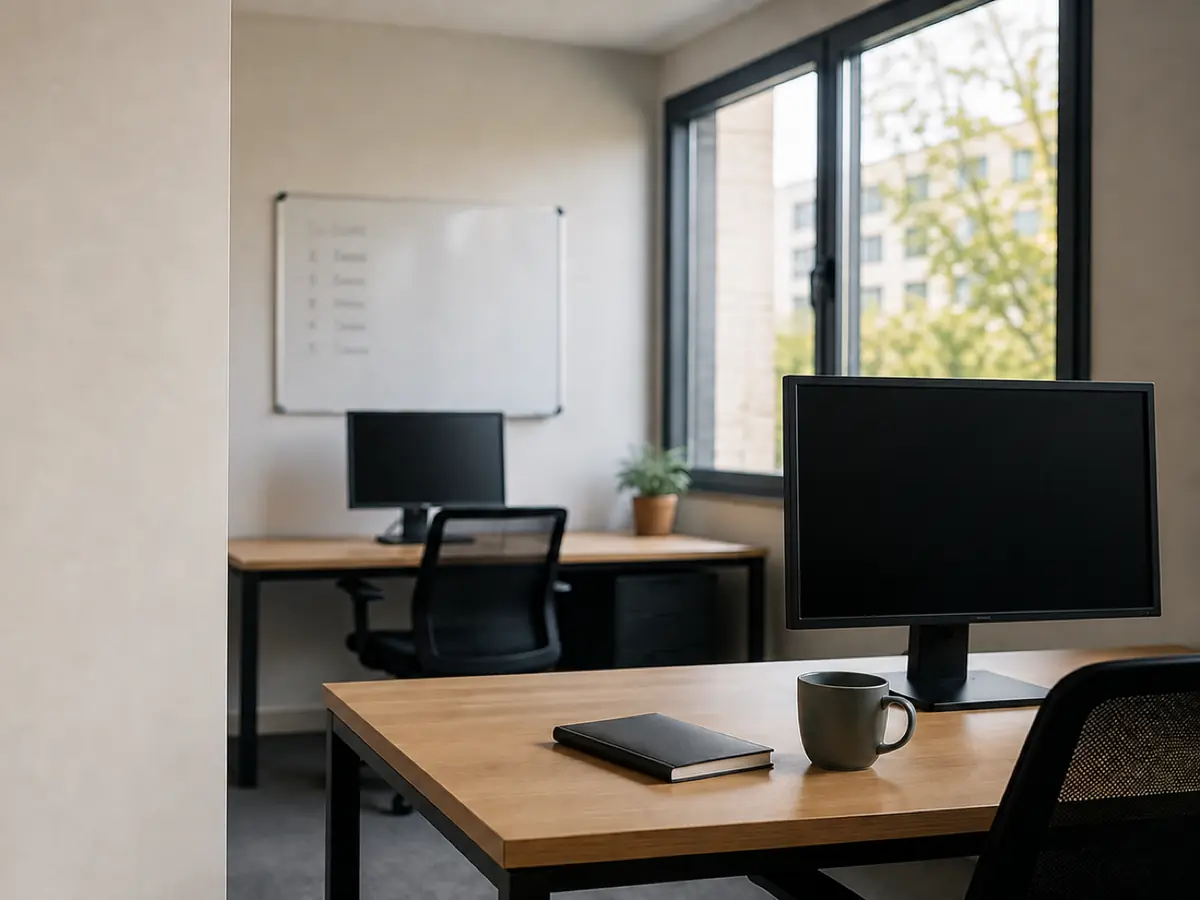
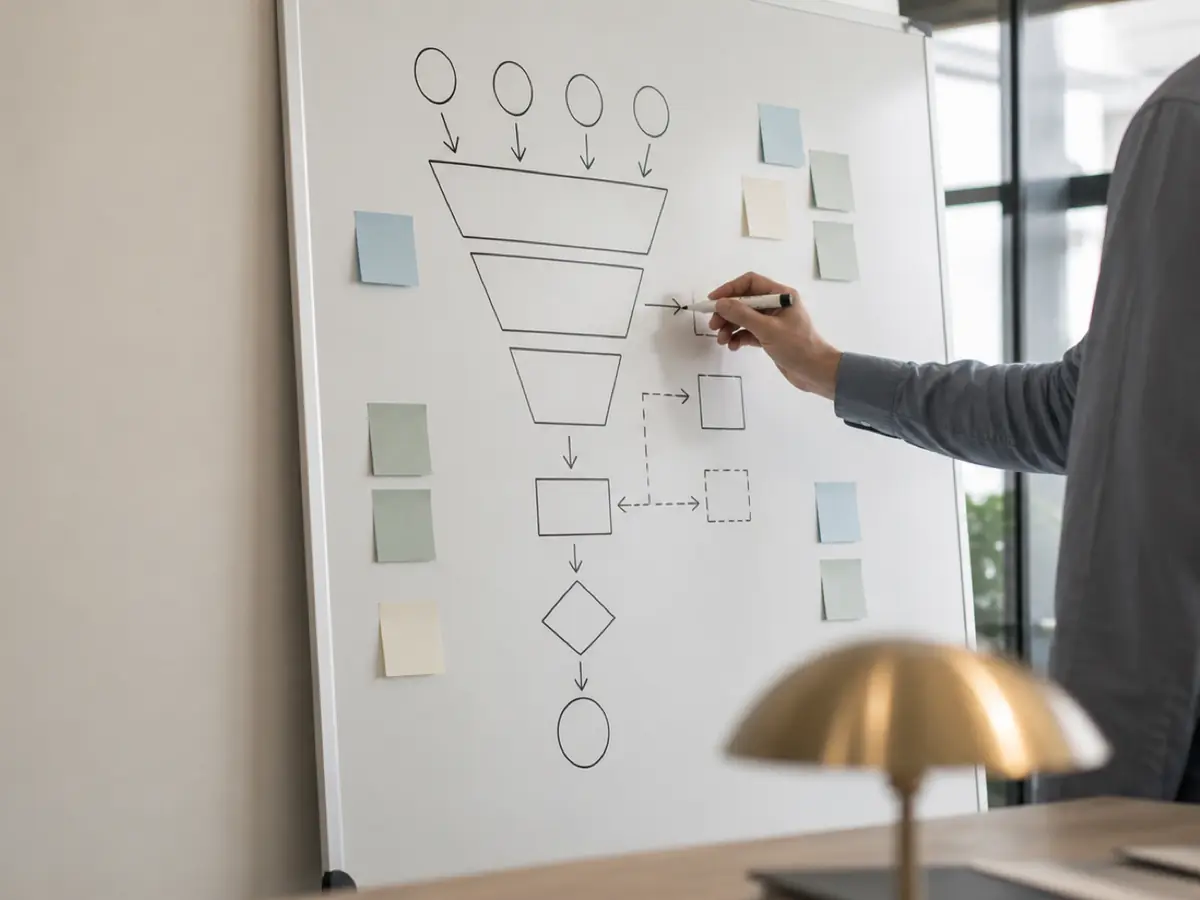
Agencies hero: whiteboard image

diff --git a/IMAGE-PROMPTS.md b/IMAGE-PROMPTS.md
@@ -41,7 +41,7 @@ Keep every hero under 80 KB so vertical pages stay under the 500 KB budget. Conv
 > [style block] A modern gym front desk with a wood counter, a row of water bottles, and a wall clock, empty at opening time. Equipment out of focus behind glass. Soft morning light. The left third of the frame is the plain counter surface.
 
 **agencies-hero**
-> [style block] A small marketing agency office early in the morning before anyone arrives. Two desks with monitors switched off, a notebook and a mug, a whiteboard in the background with a column of client names too far away to read. Large window, soft light. The left third of the frame is a plain wall.
+> [style block] A tall whiteboard in a modern agency office covered in a hand-drawn funnel diagram and colored sticky notes, seen at a slight angle. One person's arm and shoulder at the right edge, marker in hand. A brass desk lamp on a table in the foreground, out of focus. The left third of the frame is the plain wall beside the whiteboard.
 
 ## Optional
 
